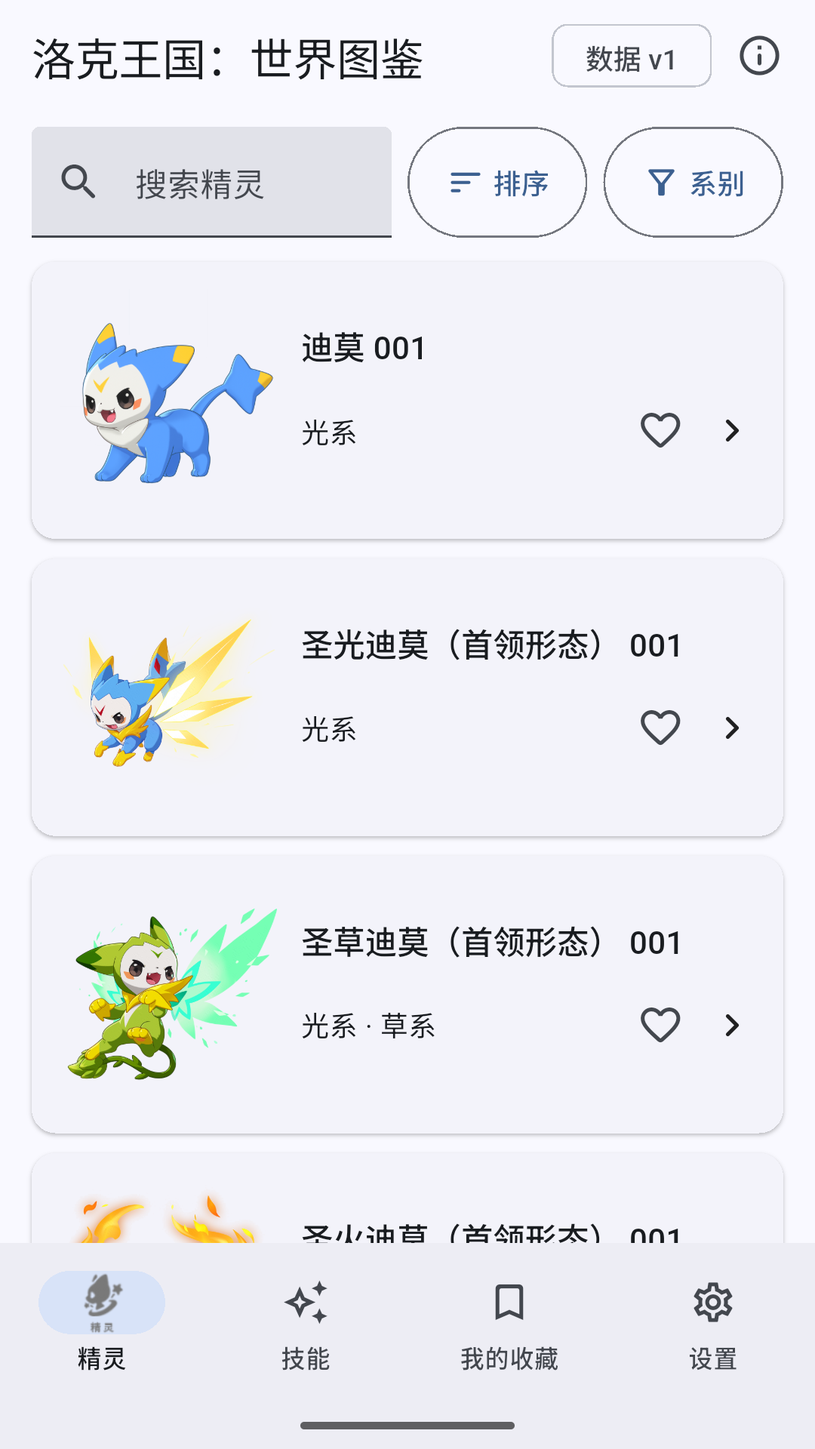
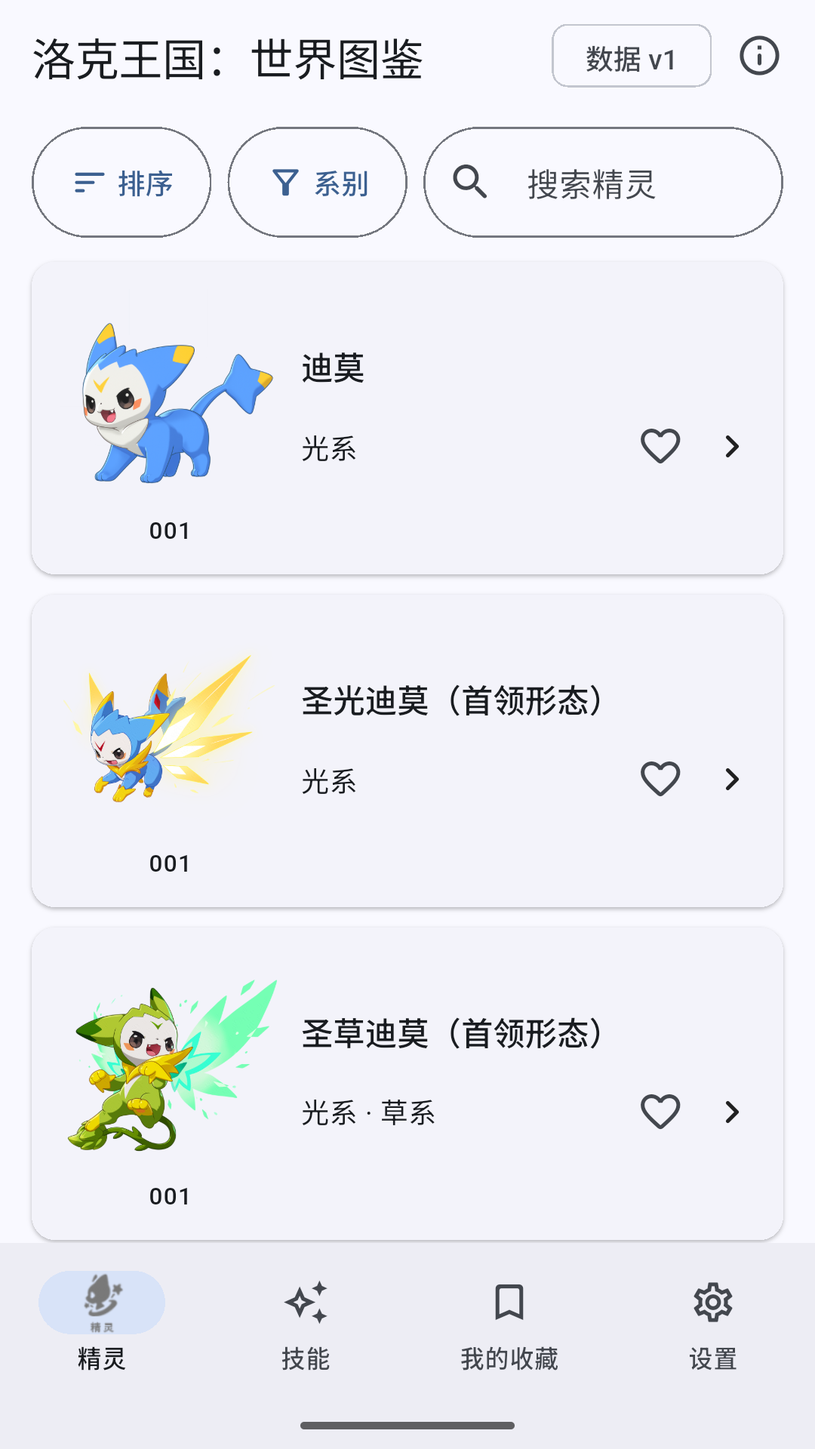
Refine Phase 8 creature catalog layout
Move handbook numbers below creature illustrations.
Order controls as Sort, Types, Search and use a rounded search field.

diff --git a/app/lib/features/pets/pet_catalog_page.dart b/app/lib/features/pets/pet_catalog_page.dart
@@ -291,30 +291,6 @@ class _PetCatalogPageState extends State<PetCatalogPage> {
                   crossAxisAlignment: CrossAxisAlignment.start,
                   children: <Widget>[
                     Expanded(
-                      flex: 2,
-                      child: TextField(
-                        key: const ValueKey('pet-search'),
-                        controller: _searchController,
-                        onChanged: _scheduleSearch,
-                        textInputAction: TextInputAction.search,
-                        decoration: InputDecoration(
-                          labelText: context.tr('Search creatures'),
-                          prefixIcon: const Icon(Icons.search_rounded),
-                          suffixIcon: _searchController.text.isEmpty
-                              ? null
-                              : IconButton(
-                                  tooltip: context.tr('Clear search'),
-                                  onPressed: () {
-                                    _searchController.clear();
-                                    _load();
-                                  },
-                                  icon: const Icon(Icons.clear_rounded),
-                                ),
-                        ),
-                      ),
-                    ),
-                    const SizedBox(width: 8),
-                    Expanded(
                       child: _CompactFilterButton(
                         key: const ValueKey('pet-sort'),
                         icon: Icons.sort_rounded,
@@ -332,6 +308,38 @@ class _PetCatalogPageState extends State<PetCatalogPage> {
                             ? context.tr('Types')
                             : '${context.tr('Types')} (${_selectedTypeIds.length})',
                         onPressed: _showTypeFilters,
+                      ),
+                    ),
+                    const SizedBox(width: 8),
+                    Expanded(
+                      flex: 2,
+                      child: TextField(
+                        key: const ValueKey('pet-search'),
+                        controller: _searchController,
+                        onChanged: _scheduleSearch,
+                        textInputAction: TextInputAction.search,
+                        decoration: InputDecoration(
+                          hintText: context.tr('Search creatures'),
+                          prefixIcon: const Icon(Icons.search_rounded),
+                          suffixIcon: _searchController.text.isEmpty
+                              ? null
+                              : IconButton(
+                                  tooltip: context.tr('Clear search'),
+                                  onPressed: () {
+                                    _searchController.clear();
+                                    _load();
+                                  },
+                                  icon: const Icon(Icons.clear_rounded),
+                                ),
+                          filled: false,
+                          border: OutlineInputBorder(
+                            borderRadius: BorderRadius.circular(28),
+                          ),
+                          contentPadding: const EdgeInsets.symmetric(
+                            horizontal: 12,
+                            vertical: 16,
+                          ),
+                        ),
                       ),
                     ),
                   ],
@@ -461,7 +469,7 @@ class _PetResultCard extends StatelessWidget {
     final form = !pet.isDefaultForm && pet.form?.trim().isNotEmpty == true
         ? '\uff08${pet.form!.trim()}\uff09'
         : '';
-    final title = '${pet.name}$form ${pet.dexNo}';
+    final title = '${pet.name}$form';
     return Card(
       child: InkWell(
         onTap: onTap,
@@ -469,13 +477,27 @@ class _PetResultCard extends StatelessWidget {
           padding: const EdgeInsets.all(14),
           child: Row(
             children: <Widget>[
-              CatalogAssetImage(
-                assetPath: petIllustrationAsset(pet.illustrationKey),
-                semanticLabel: pet.name,
+              SizedBox(
                 width: 112,
-                height: 112,
-                fit: BoxFit.contain,
-                fallbackIcon: Icons.pets_outlined,
+                child: Column(
+                  mainAxisSize: MainAxisSize.min,
+                  children: <Widget>[
+                    CatalogAssetImage(
+                      assetPath: petIllustrationAsset(pet.illustrationKey),
+                      semanticLabel: pet.name,
+                      width: 112,
+                      height: 112,
+                      fit: BoxFit.contain,
+                      fallbackIcon: Icons.pets_outlined,
+                    ),
+                    const SizedBox(height: 2),
+                    Text(
+                      pet.dexNo,
+                      key: ValueKey('pet-dex-${pet.petId}'),
+                      style: Theme.of(context).textTheme.labelMedium,
+                    ),
+                  ],
+                ),
               ),
               const SizedBox(width: 10),
               Expanded(

diff --git a/app/test/features/catalog_flow_test.dart b/app/test/features/catalog_flow_test.dart
@@ -231,13 +231,13 @@ void main() {
 
     expect(find.text('\u5168\u90e8\u5f62\u6001'), findsNothing);
     expect(find.text('\u9ed8\u8ba4\u5f62\u6001'), findsNothing);
-    expect(find.text('\u8fea\u83ab 001'), findsOneWidget);
+    expect(find.text('\u8fea\u83ab'), findsOneWidget);
     expect(
-      find.text(
-        '\u5723\u5149\u8fea\u83ab\uff08\u9996\u9886\u5f62\u6001\uff09 001',
-      ),
+      find.text('\u5723\u5149\u8fea\u83ab\uff08\u9996\u9886\u5f62\u6001\uff09'),
       findsOneWidget,
     );
+    expect(find.byKey(const ValueKey('pet-dex-pet_000004')), findsOneWidget);
+    expect(find.byKey(const ValueKey('pet-dex-pet_000560')), findsOneWidget);
     expect(find.text('\u5149\u7cfb'), findsWidgets);
 
     final searchRect = tester.getRect(find.byKey(const ValueKey('pet-search')));
@@ -247,6 +247,14 @@ void main() {
     expect(sortRect.center.dy, closeTo(typesRect.center.dy, 0.1));
     expect(searchRect.width, greaterThan(sortRect.width * 1.8));
     expect(sortRect.width, closeTo(typesRect.width, 0.1));
+    expect(sortRect.left, lessThan(typesRect.left));
+    expect(typesRect.left, lessThan(searchRect.left));
+    final search = tester.widget<TextField>(
+      find.byKey(const ValueKey('pet-search')),
+    );
+    expect(search.decoration?.labelText, isNull);
+    expect(search.decoration?.hintText, '\u641c\u7d22\u7cbe\u7075');
+    expect(search.decoration?.border, isA<OutlineInputBorder>());
 
     final dimoCard = find.byKey(const ValueKey('pet-result-pet_000004'));
     final dimoImage = tester.widget<CatalogAssetImage>(
@@ -293,7 +301,7 @@ void main() {
     final creatureSearch = tester.widget<TextField>(
       find.byKey(const ValueKey('pet-search')),
     );
-    expect(creatureSearch.decoration?.labelText, '\u641c\u7d22\u7cbe\u7075');
+    expect(creatureSearch.decoration?.hintText, '\u641c\u7d22\u7cbe\u7075');
 
     await tester.tap(find.byTooltip('\u56fe\u9274\u4fe1\u606f'));
     await tester.pumpAndSettle();
@@ -364,12 +372,12 @@ void main() {
     await tester.enterText(find.byKey(const ValueKey('pet-search')), 'second');
     await tester.pump(const Duration(milliseconds: 300));
     await tester.pump();
-    expect(find.text('Second result 001'), findsOneWidget);
+    expect(find.text('Second result'), findsOneWidget);
 
     stale.complete(<PetSummary>[_summary('stale', 'Stale result')]);
     await tester.pumpAndSettle();
-    expect(find.text('Second result 001'), findsOneWidget);
-    expect(find.text('Stale result 001'), findsNothing);
+    expect(find.text('Second result'), findsOneWidget);
+    expect(find.text('Stale result'), findsNothing);
   });
 
   testWidgets('favorites a concrete creature and shows it in My Library', (

diff --git a/docs/implementation-reports/phase-8.md b/docs/implementation-reports/phase-8.md
@@ -1,6 +1,6 @@
 # Phase 8 implementation report
 
-- Status: implementation complete for the ADR-0015 and ADR-0016 scopes; GitHub Desktop checkpoint deferred while the host is locked; all other Phase 8 release work deferred
+- Status: implementation complete for the ADR-0015 and ADR-0016 scopes; all other Phase 8 release work deferred
 - Date: 2026-09-10
 - Workspace: `/Users/ethan/Documents/ChatGPT/roco-handbook`
 
@@ -17,7 +17,7 @@ App signing, store account configuration, listing submission, upload, publicatio
 - Frozen visual library: 569 creature illustrations covering all 596 active forms, 736 skill or feature icons, and 35 type, stat, or skill-category icons under `app/assets/wiki/v1/`; 596 unused head files and their Flutter asset declaration were removed
 - Import and generation tools: `tools/bwiki_import/image_assets.py`, `tools/bwiki_import/type_relations.py`, their CLI commands, `tools/brand/generate_brand_assets.swift`, and the atomic RGB store-screenshot normalizer
 - App domain and data: the existing illustration key is projected into creature summaries and all summary queries, the upstream head key remains preserved in Catalog data, a null-preserving `PetDetail.totalBaseStats` contract, plus the type-relationship contract and bundled-asset repository
-- App presentation: centralized `en-US` and `zh-CN` strings; localized startup, navigation, Catalog, personal library, and Settings flows; a compact same-row creature search/sort/type layout; modal sort and type selectors; exact default and named-form card copy; enlarged full illustrations; accessible skill, feature, type, stat, and category images; total base stats; incoming and outgoing type relationships
+- App presentation: centralized `en-US` and `zh-CN` strings; localized startup, navigation, Catalog, personal library, and Settings flows; a compact Sort/Types/Search row with a rounded placeholder-only Search field; modal sort and type selectors; exact default and named-form card copy with the handbook number below each illustration; enlarged full illustrations; accessible skill, feature, type, stat, and category images; total base stats; incoming and outgoing type relationships
 - Platform identity: Android and iOS display names, launcher and App icons, branded launch resources, and regenerated platform image slots
 - Tests: focused image manifest, complete Catalog-to-Flutter illustration resolution, exact creature control-row geometry and card copy, modal sort interaction, complete Catalog base-stat and type-combination audits, type relation, repository, source-grounded terminology, literal UI-key completeness, fixed-copy localization-entry enforcement, Chinese top-level navigation rendering, frozen brand-source and output identities, store-screenshot eligibility, widget, and iOS platform-identity coverage; the generated empty iOS example test was replaced
 - Store evidence: four iOS screenshots at 1206 × 2622 and four Android screenshots at 1080 × 1920 under `docs/evidence/phase-8-store-screenshots/`; all eight are 8-bit RGB PNGs without alpha
@@ -62,19 +62,19 @@ cd app && flutter build apk --debug
 Result: passed; the rebuilt APK was installed and launched on the Android API 36 emulator.
 
 cd app && flutter build appbundle --release --no-pub
-Result: passed; 158,118,017-byte AAB; SHA-256 f6b3452a1a637438a9b3f76790ccc751b61473f7a0e31a41ce44abec4b97c4ba.
+Result: passed; 158,152,015-byte AAB reported as 158.2 MB by Flutter; SHA-256 5ad3b961b314a2f6cbe6999e741554b92e5a5eab758d28d87f4bc8543ff16cd3.
 
 cd app && flutter build ios --release --no-codesign --no-pub
-Result: passed; 122,628 KiB App reported as 122.7 MB by Flutter; embedded version 1.1.0 build 2; App framework SHA-256 2a3c7467036bcd49a8251d7b2c3f851fecda2480a889eba25292b2b51159c046.
+Result: passed; 122,644 KiB App reported as 122.8 MB by Flutter; embedded version 1.1.0 build 2; App framework SHA-256 6d0e0d6f848063dd9e5ea1397f91066d0378f7e09da28a9957a0a8abbdcd4b50.
 
 Virtual-platform visual review
-Result: iOS and Android displayed localized navigation, enlarged creature illustrations, the compact creature control row, base stats, the calculated total, and type relationships. Four Android captures were reviewed after the measured status-bar crop; all eight store screenshots retained complete App content after RGB normalization. The repository owner separately observed the implemented skill imagery.
+Result: the current source built, installed, and launched on the iOS simulator and Android emulator, and updated Catalog captures passed the measured dimensions and RGB normalization checks. Final subjective acceptance of the Sort/Types/Search layout and number placement remains with the repository owner. Earlier Phase 8 review covered localized navigation, imagery, base stats, the calculated total, and type relationships.
 
 git diff --check
 Result: passed.
 
 GitHub Actions `Offline validation`
-Result: passed for the earlier Phase 8 commit `94ee692d9fc30ef33f9937116c891773d425a489`; hosted run 34400308182 completed successfully. ADR-0016 is not included in that hosted run.
+Result: passed for the earlier Phase 8 commit `94ee692d9fc30ef33f9937116c891773d425a489`; hosted run 34400308182 completed successfully. Hosted validation of the current ADR-0016 UI revision is reserved for repository-owner confirmation.
 
 shasum -a 256 docs/technical-spec-v1.md
 Result: 343618b414b7b8d6262dd58f82010bfefb2f3fdb29711a9e86428e042dd81876; the provenance baseline is unchanged.
@@ -87,11 +87,11 @@ Result: 343618b414b7b8d6262dd58f82010bfefb2f3fdb29711a9e86428e042dd81876; the pr
 - Real Catalog V2 import or Phase 7 production package update
 - Logical incremental patch generation or installation
 - Any Phase 8 work outside ADR-0015 and ADR-0016
-- GitHub Desktop commit, push, and hosted validation for ADR-0016; the host remained locked, so the active user instruction required work to continue without committing
+- Hosted validation for the current ADR-0016 UI revision; the repository owner will confirm it separately
 
 ## Remaining risks and next boundary
 
-The measured package cost remains material because the complete illustration, skill, and domain-icon library ships offline. Removing 596 unused heads reduces the source asset bundle by 9,221,952 bytes, the Android AAB from 167,411,147 to 158,118,017 bytes, and the iOS no-codesign App from 133,024 to 122,628 KiB. No runtime image download, on-demand resource, or logical asset patch protocol was introduced.
+The measured package cost remains material because the complete illustration, skill, and domain-icon library ships offline. Removing 596 unused heads reduces the source asset bundle by 9,221,952 bytes; the current Android AAB is 158,152,015 bytes and the iOS no-codesign App is 122,644 KiB. No runtime image download, on-demand resource, or logical asset patch protocol was introduced.
 
 A later Catalog or Wiki revision can add keys or change source files, but the installed App will not acquire them automatically; a new immutable image asset version and App release are required. The upstream `head_key` remains present only for source fidelity and is not a packaged runtime dependency.
 

diff --git a/docs/evidence/phase-8-assets-localization-and-visuals-2026-09-10.md b/docs/evidence/phase-8-assets-localization-and-visuals-2026-09-10.md
@@ -23,7 +23,7 @@ The type relationship contract freezes `Module:TypeRelation` page ID 12987, revi
 
 The Flutter localization suite compares the UI's source-grounded domain vocabulary with every applicable entry in `config/ui_terminology_zh_cn.json` and accounts for the source-page-only `creature_handbook` term. It also checks every literal BuildContext `.tr(...)` call for a distinct Chinese mapping and rejects fixed visible copy that bypasses the localization entry point. All three regressions passed as part of the current 100-test Flutter suite.
 
-The Chinese-locale top-level smoke test rendered and navigated the creature search, skill search, personal library, Settings, and Catalog information interfaces. It observed localized labels in every section and passed as part of the current 100-test Flutter suite. A separate widget regression confirms that both an absent asset path and a failed bundled-asset load retain the declared accessible image label while showing the local fallback icon. The ADR-0016 regression renders the exact default and named-form card copy, checks 112-logical-pixel illustration use, locks the two-to-one-to-one control widths, and applies a choice from the sort bottom sheet.
+The Chinese-locale top-level smoke test rendered and navigated the creature search, skill search, personal library, Settings, and Catalog information interfaces. It observed localized labels in every section and passed as part of the current 100-test Flutter suite. A separate widget regression confirms that both an absent asset path and a failed bundled-asset load retain the declared accessible image label while showing the local fallback icon. The ADR-0016 regression renders the exact default and named-form card copy, checks the handbook number below the 112-logical-pixel illustration, locks the one-to-one-to-two Sort/Types/Search order and widths, verifies the rounded placeholder-only Search field, and applies a choice from the sort bottom sheet.
 
 ## Brand asset identity
 
@@ -55,7 +55,7 @@ The current Phase 8 source was rebuilt and installed on both virtual platforms. 
 
 The repository owner separately observed the implemented skill imagery in the iOS simulator. No additional skill-image observation is claimed here.
 
-After the iOS Simulator window was closed, the current working source was rebuilt, installed, and launched on the still-booted iPhone 17 simulator. A fresh 1206 × 2622 capture confirmed the localized creature Catalog and bundled creature imagery, distinguishing a successful reinstall from a cached home-screen icon. The ADR-0016 build was then installed again on the same simulator and on the Android API 36 emulator. Direct screenshots confirmed the final one-row controls, uninterrupted named-form title, enlarged full illustrations, and the matching chip-based sort and type bottom sheets.
+After the iOS Simulator window was closed, the current working source was rebuilt, installed, and launched on the still-booted iPhone 17 simulator. A fresh 1206 × 2622 capture confirmed the localized creature Catalog and bundled creature imagery, distinguishing a successful reinstall from a cached home-screen icon. The ADR-0016 build was then installed again on the same simulator and on the Android API 36 emulator. Fresh capture artifacts record the Sort/Types/Search row, rounded Search field, handbook number below each illustration, and enlarged full illustrations. Final subjective acceptance of this revision remains with the repository owner.
 
 ## Store screenshot set
 
@@ -68,11 +68,11 @@ The iOS captures retain their exact simulator dimensions. The Android captures u
 
 | Platform | File | Pixels | SHA-256 |
 | --- | --- | ---: | --- |
[10 lines of base64/hex data omitted]
@@ -83,8 +83,8 @@ The regression gate requires the exact four-file inventory for each platform, th
 
 The current `1.1.0` build `2` source built successfully with the complete frozen image set:
 
[4 lines of base64/hex data omitted]
 - iOS simulator App and Android debug APK: both built, installed, launched, and supplied the screenshot observations above.
 
 The generated build products remain ignored and untracked. The package sizes are the measured cost of shipping the complete offline image library; ADR-0016 reduces that library by 9,221,952 uncompressed bytes by removing unused heads.

diff --git a/docs/decisions/ADR-0016-phase-8-creature-catalog-illustration-layout.md b/docs/decisions/ADR-0016-phase-8-creature-catalog-illustration-layout.md
@@ -14,10 +14,10 @@ The Catalog already preserves stable concrete-form identity, default-form select
 ## Decision
 
 - The creature catalog always lists concrete forms. The Handbook/All forms mode control is removed, and the page uses the existing `searchPets` repository query for both empty and non-empty searches.
-- Search, Sort, and Types share one responsive row. Search receives two flexible width units; Sort and Types receive one unit each, with fixed gaps between controls.
+- Sort, Types, and Search share one responsive row in that order. Sort and Types receive one flexible width unit each; Search receives two units, with fixed gaps between controls. Search uses a rounded outlined field and a placeholder rather than a floating label.
 - Sort opens a modal bottom sheet with selectable chips and explicit Cancel and Apply actions. Its structure and surface treatment match the existing type-filter bottom sheet.
 - Creature cards use the frozen full illustration at 112 logical pixels with contain fitting. Head images are no longer used by App presentation or included in the bundled image library.
-- A default-form card displays `<name> <dex number>` followed by its type names. A non-default form displays `<name>（<form>） <dex number>` followed by its type names. The default-form label is intentionally omitted.
+- A default-form card displays `<name>` followed by its type names. A non-default form displays `<name>（<form>）` followed by its type names. The handbook number is centered below the illustration, and the default-form label is intentionally omitted.
 - The existing Catalog `head_key` field remains preserved as upstream data. This decision changes only the derived image-import scope, App DTO projection, runtime path helpers, and packaged files; it does not remove or reinterpret the source field.
 - Skill user lists use the same frozen illustration helper, so removal of packaged heads leaves no runtime head dependency.
 
@@ -30,9 +30,9 @@ Catalog and User schemas, source identity, default-form rules, detail-page seman
 ## Acceptance
 
 - The Handbook/All forms control is absent and an empty query returns concrete forms.
-- Search, Sort, and Types render on the same row with the intended two-to-one-to-one width relationship.
+- Sort, Types, and Search render in that order on the same row with the intended one-to-one-to-two width relationship, and Search has no floating label.
 - Sort and type selection use modal bottom sheets, and applying a selection reloads through the existing repository query contract.
-- Default and non-default card copy follows the declared exact structure without a default-form label.
+- Default and non-default card copy follows the declared exact structure without a default-form label, and the handbook number appears below the illustration rather than inside the title.
 - Every active form resolves to a bundled illustration through the production helper.
 - No App code or declared Flutter asset path refers to the removed head bundle.
 - The immutable image manifest exactly matches the remaining bundled PNG files and records their hashes and byte lengths.

diff --git a/app/README.md b/app/README.md
@@ -6,7 +6,7 @@ The production App does not request BWIKI, execute Lua, require an account, or d
 
 The current Phase 7 source is App version `1.1.0`, build `2`. The preserved Phase 6 candidate remains `1.0.0`, build `1` with its original artifact hashes.
 
-The creature catalog lists concrete forms with Search, Sort, and Types on one row, opens both selectors as modal bottom sheets, and uses full illustrations instead of head images. Default-form labels are omitted from cards; named non-default forms appear in full-width parentheses beside the source name and handbook number. Creature details show the sum of all six base-stat values only when the complete set is present. Incoming and outgoing type relationships come from the frozen `assets/wiki/type-relations-v1.json` contract, including the source three-times cap for a dual-type four-times weakness. The frozen image manifest under `assets/wiki/v1/` covers every active creature illustration and every active skill reference.
+The creature catalog lists concrete forms with Sort, Types, and Search on one row, opens both selectors as modal bottom sheets, and uses full illustrations instead of head images. Search uses a compact rounded outline without a floating label. Default-form labels are omitted from cards; named non-default forms appear in full-width parentheses beside the source name, while the handbook number is centered below the illustration. Creature details show the sum of all six base-stat values only when the complete set is present. Incoming and outgoing type relationships come from the frozen `assets/wiki/type-relations-v1.json` contract, including the source three-times cap for a dual-type four-times weakness. The frozen image manifest under `assets/wiki/v1/` covers every active creature illustration and every active skill reference.
 
 ## Run locally
 

diff --git a/docs/features/localized-visual-handbook.md b/docs/features/localized-visual-handbook.md
@@ -33,9 +33,9 @@ An App-side packaging regression reads the active records from the real bundled 
 
 ## Creature catalog presentation
 
-The creature catalog always returns concrete forms and no longer exposes a Handbook/All forms mode switch. Search occupies half of the compact control row; Sort and Types divide the remaining width with fixed spacing. Sort uses the same modal-bottom-sheet pattern as type filtering, with a visible selected chip and explicit Cancel and Apply actions.
+The creature catalog always returns concrete forms and no longer exposes a Handbook/All forms mode switch. Sort and Types lead the compact control row with one width unit each; Search follows with two units and uses a rounded outline without a floating label. Sort uses the same modal-bottom-sheet pattern as type filtering, with a visible selected chip and explicit Cancel and Apply actions.
 
-Cards render the frozen 512-pixel-source illustration inside a 112-logical-pixel contain box. Default forms display `<name> <dex number>` and omit a form label. Named non-default forms display `<name>（<form>） <dex number>`. Type names appear as a separate text line, preserving exact Catalog terminology while leaving more space for the full creature art.
+Cards render the frozen 512-pixel-source illustration inside a 112-logical-pixel contain box and center the handbook number immediately below it. Default forms display `<name>` and omit a form label. Named non-default forms display `<name>（<form>）`. Type names appear as a separate text line, preserving exact Catalog terminology while leaving more space for the full creature art.
 
 ## Base-stat total
 
